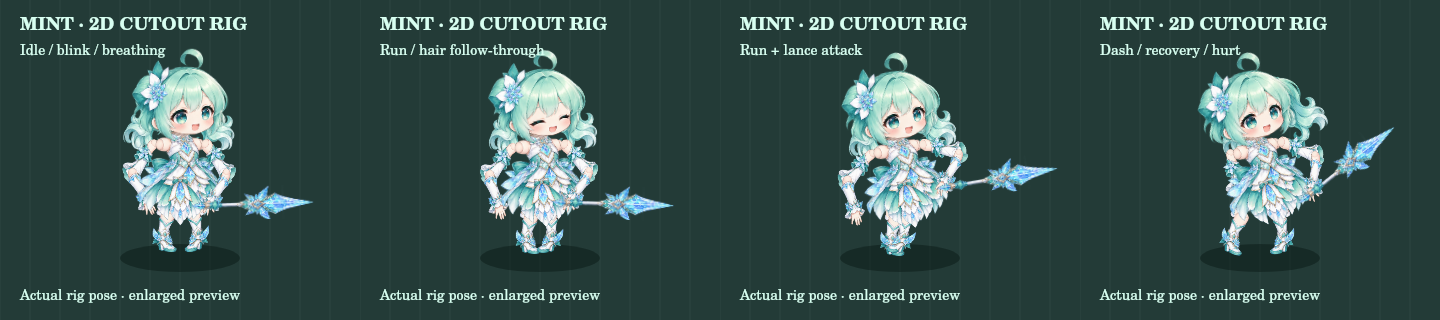
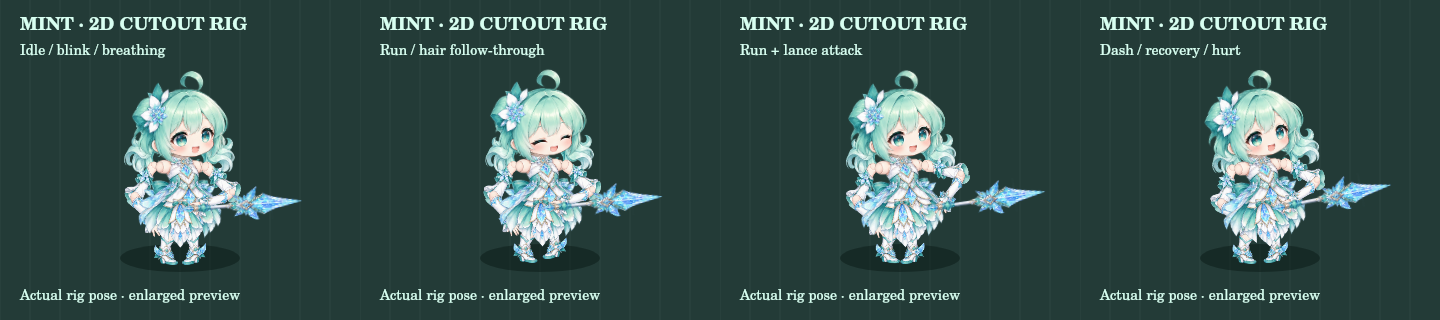
fix: plant Mint rig feet and keep lance attached during casts — v6.0.57

diff --git a/game.js b/game.js
@@ -50,7 +50,7 @@ function clampPlayerStats(p){ if(p._uqGlass){p.maxhp=Math.max(1,Math.round(p.max
 const TAU = Math.PI * 2;   // global — Game scene (บอส/VFX) อ้างถึง TAU ด้วย เดิมประกาศเฉพาะใน Boot.create → "TAU is not defined"
 
 /* ---- เวอร์ชัน + บันทึกUpdates (build-www ดึงไปทำ version.json ให้หน้า download) ---- */
-const GAME_VERSION = '6.0.56';
+const GAME_VERSION = '6.0.57';
 // Miniboss rewards: choose damage at an HP cost, or recovery.
 const CROSSROADS=[
   {id:'blood',name:'Blood Pact',desc:'+25% damage for 90 seconds',detail:'Lose 30% of current HP',artKey:'prize_jackpot',color:0xff6f9d},
@@ -60,6 +60,7 @@ const CROSSROADS=[
 const HURT_IFRAME_MUL = 0.6;
 const RELEASES_URL = 'https://github.com/hardza1230/Survival-like-Mobile-Game/releases/download/latest/mochi-mayhem-debug.apk';
 const CHANGELOG = [
+  { v:'6.0.57', date:'2026-10-01', title:'Mint rig gait and grip correction', items:['Planted feet and two-bone knee solving prevent crossed legs','Shorter chibi stride and distance-based gait smooth walking','Lance remains attached to the hand through casts; relaxed arm pose'] },
   { v:'6.0.56', date:'2026-10-01', title:'Mint 2D cutout rig trial', items:['Painted head, twin tails, arms, legs and lance animate on a joint hierarchy','Walking continues during upper-body lance attacks; hair follows dash movement','Mint keeps its existing physics, skills and saves; original sprites remain as fallback'] },
   { v:'6.0.55', date:'2026-10-01', title:'Temple layout, character EXP and digging fixes', items:['Core gem markers and button labels align with their painted sockets','Sugar balance is capped at 9,999,999 across all save paths','Stage results animate permanent character EXP and move Sugar x2 below rewards','Digging cancels stale animation callbacks and preserves earned treasure when leaving'] },
   { v:'6.0.54', date:'2026-10-01', title:'Ancient Root Knight animation cleanup', items:['Clean transparent C2-5 miniboss atlas with sixteen isolated frames','Separate idle, walk, cleave, shield, charge and summon animation states','Defeat uses the collapsed frame and stale pose timers cannot resume pooled sprites'] },
@@ -4124,33 +4125,45 @@ const MINT_RIG_BONES = [
   ['hairL','head',-11,-14],['hairR','head',11,-14],
   ['armL','torso',-10,-5],['foreL','armL',-5,11],
   ['armR','torso',10,-5],['foreR','armR',5,11],['lance','foreR',-5,11],
-  ['thighL','hip',-5,9],['shinL','thighL',-1,9],
-  ['thighR','hip',5,9],['shinR','thighR',1,9],['skirt','torso',0,8]
+  ['thighL','hip',-5,9],['shinL','thighL',0,8],
+  ['thighR','hip',5,9],['shinR','thighR',0,8],['skirt','torso',0,8]
 ];
 // bone, atlas part, painted width/height, joint origin, draw order
 const MINT_RIG_SKINS = [
  ['hairL',0,16,29,.55,.12,0],['hairR',1,16,29,.45,.12,1],
- ['thighL',9,8,12,.45,.08,2],['shinL',10,9,16,.45,.06,3],
- ['thighR',11,8,12,.5,.08,4],['shinR',12,9,16,.5,.06,5],
+ ['thighL',9,7,9,.45,.08,2],['shinL',10,9,13,.45,.06,3],
+ ['thighR',11,7,9,.5,.08,4],['shinR',12,9,13,.5,.06,5],
  ['armL',5,12,17,.80,.10,6],['foreL',6,11,17,.23,.1,7],
  ['torso',4,30,32,.5,.30,8],['skirt',14,17,18,.5,.08,9],
  ['armR',7,12,17,.22,.10,10],['foreR',8,11,17,.79,.10,11],
  ['lance',13,44,12,.17,.5,12],['head',2,35,33,.5,.76,13]
 ];
+// Downward-axis two-bone IK. Each foot stays in its own screen-space lane.
+function mintRigLeg(phase,move,side){
+ const lift=Math.max(0,Math.sin(phase))*2.3*move,
+   dx=Math.cos(phase)*.65*move,dy=19.6-lift+Math.sin(phase)*.35*move,
+   upper=8,lower=12,d=Math.min(upper+lower-.01,Math.hypot(dx,dy)),
+   clamp=v=>Math.max(-1,Math.min(1,v)),aim=Math.atan2(-dx,dy),
+   knee=Math.acos(clamp((d*d-upper*upper-lower*lower)/(2*upper*lower))),
+   thigh=aim+side*Math.acos(clamp((upper*upper+d*d-lower*lower)/(2*upper*d)));
+ return {thigh,knee:-side*knee};
+}
 function mintRigPose(time,phase,move,cast,dash,hurt){
- const step=Math.sin(phase),opposite=Math.sin(phase+Math.PI),breath=Math.sin(time*3),
-   thrust=Math.sin(Math.PI*Math.max(0,Math.min(1,cast))),swing=.36*move;
- return {hip:{y:Math.abs(step)*1.6*move+breath*.35},
-  torso:{rotation:-.06*move-.19*thrust-.20*dash+.14*hurt},
-  head:{rotation:.025*breath+.035*step*move+.10*thrust-.1*hurt},
-  hairL:{rotation:.13*Math.sin(phase-.75)*move+.045*Math.sin(time*2.3)-.42*dash},
-  hairR:{rotation:.12*Math.sin(phase-.95)*move+.04*Math.sin(time*2.3+.6)-.38*dash},
-  armL:{rotation:.12+opposite*swing-.35*dash+.16*hurt},foreL:{rotation:-.08+.12*move},
-  armR:{rotation:-.08+step*swing*.45-.58*thrust-.42*dash},
-  foreR:{rotation:.05+.18*move+.75*thrust},lance:{x:thrust*6,rotation:-.15*thrust-.24*dash},
-  thighL:{rotation:step*swing},shinL:{rotation:Math.max(0,-step)*.35*move},
-  thighR:{rotation:opposite*swing},shinR:{rotation:Math.max(0,-opposite)*.35*move},
-  skirt:{rotation:.06*Math.sin(phase-.6)*move-.12*dash}};
+ const step=Math.sin(phase),breath=Math.sin(time*3),
+   thrust=Math.sin(Math.PI*Math.max(0,Math.min(1,cast))),
+   left=mintRigLeg(phase,move,1),right=mintRigLeg(phase+Math.PI,move,-1),
+   arm=-.28-.65*thrust-.18*dash,fore=.95-.15*thrust;
+ return {hip:{y:-Math.abs(step)*.55*move+breath*.18},
+  torso:{rotation:-.025*move-.065*thrust-.10*dash+.08*hurt},
+  head:{rotation:.015*breath+.015*step*move+.025*thrust-.05*hurt},
+  hairL:{rotation:.06*Math.sin(phase-.75)*move+.025*Math.sin(time*2.3)-.2*dash},
+  hairR:{rotation:.055*Math.sin(phase-.95)*move+.025*Math.sin(time*2.3+.6)-.18*dash},
+  armL:{rotation:.04-.065*step*move-.14*dash+.08*hurt},foreL:{rotation:-.12},
+  armR:{rotation:arm},foreR:{rotation:fore},
+  lance:{rotation:-arm-fore-.07},
+  thighL:{rotation:left.thigh},shinL:{rotation:left.knee},
+  thighR:{rotation:right.thigh},shinR:{rotation:right.knee},
+  skirt:{rotation:.025*Math.sin(phase-.6)*move-.04*dash}};
 }
 class MintCutoutRig {
  constructor(scene){
@@ -4171,12 +4184,18 @@ class MintCutoutRig {
    const p=parent&&this.bones[parent],r=p?p.worldRotation:0,c=Math.cos(r),s=Math.sin(r);
    b.worldX=(p?p.worldX:0)+b.x*c-b.y*s;b.worldY=(p?p.worldY:0)+b.x*s+b.y*c;b.worldRotation=r+b.rotation;
   }
-  for(const {name,skin} of this.skins){const b=this.bones[name];skin.setPosition(b.worldX,b.worldY).setRotation(b.worldRotation);}
+  for(const {name,skin} of this.skins){const b=this.bones[name];
+   if(name==='shinL'||name==='shinR'){
+    // Keep the ankle planted while the knee flexes. Boot skin pivots around its sole.
+    const angle=b.worldRotation,footX=b.worldX-Math.sin(angle)*12,footY=b.worldY+Math.cos(angle)*12;
+    skin.setOrigin(.5,.93).setPosition(footX,footY+.1).setRotation(0);
+   }else skin.setPosition(b.worldX,b.worldY).setRotation(b.worldRotation);
+  }
  }
  animate(dt,p,scene){
-  dt=Math.max(0,Math.min(.05,dt));this.clock+=dt;
+  dt=Math.max(0,Math.min(.15,dt));this.clock+=dt;
   const speed=p.body?p.body.velocity.length():0,target=speed>24?Math.min(1,speed/120):0;
-  this.move+=(target-this.move)*(1-Math.exp(-dt*12));this.phase+=dt*(8+Math.min(speed,300)*.035)*this.move;
+  this.move+=(target-this.move)*(1-Math.exp(-dt*12));this.phase+=dt*Math.min(speed,300)*.075;
   this.castLeft=Math.max(0,this.castLeft-dt);this.hurtLeft=Math.max(0,this.hurtLeft-dt);
   const cast=this.castLeft>0?1-this.castLeft/this.castDuration:0,dash=scene.dashTime>0?1:0;
   this.apply(mintRigPose(this.clock,this.phase,this.move,cast,dash,this.hurtLeft>0?1:0),dt);
@@ -4187,7 +4206,7 @@ class MintCutoutRig {
  sync(p,scene){
   if(!this.root.scene)return;
   const dead=scene.state==='dead',visible=scene.state!=='menu'&&p.active!==false;
-  this.root.setVisible(visible).setPosition(p.x,p.y+(dead?12:0)).setDepth(scene.iso?p.y:p.depth);
+  this.root.setVisible(visible).setPosition(p.x,p.y+8+(dead?12:0)).setDepth(scene.iso?p.y:p.depth);
   const scale=.82;this.root.setScale((p.flipX?-1:1)*scale,scale).setRotation(dead?.82:0).setAlpha(p.alpha);
   for(const {skin} of this.skins){if(p.isTinted){if(p.tintFill)skin.setTintFill(p.tintTopLeft);else skin.setTint(p.tintTopLeft);}else skin.clearTint();}
  }

diff --git a/docs/MINT_RIG_TRIAL.md b/docs/MINT_RIG_TRIAL.md
@@ -30,3 +30,7 @@ Built-in imagegen; transparent background; reference `assets/char_mint_frostleaf
 ## Verification
 
 Automated tests exercise production forward kinematics, moving casts, constant scale, dash/hurt/blink, mirror/tint/depth/visibility, texture fallback, character switching and cleanup. The preview renders production poses, rather than the game scene. Full in-game mobile review is still required: Mint at normal size, high attack speed, moving cast, repeated dash, left/right turns, hit flash, pause/level-up, death/revive, stage transition and returning to menu. Measure device frame time before migrating other heroes. No device performance claim is made by the fixture tests.
+
+## v6.0.57 gait and grip correction
+
+User device review found the first gait unnatural. Opposed thigh swings could cross the feet in frontal projection. The cast also translated the lance away from its hand joint. Replaced the gait with two-bone IK (8/12px links), separate left/right foot lanes, 2.3px swing lift, 0.65px depth stride and fixed upright boots. Chibi legs are shorter; presentation root is shifted 8px to meet the existing ground shadow. Walk phase follows distance, and stop does not drift the gait clock. Reduced torso and hair movement. The weapon joint is fixed to the hand; arm extension performs the attack. Updated production-pose previews and regression tests. Mobile review remains required; the attachment is a still image and cannot establish the exact timing of the reported animation.

diff --git a/CLAUDE.md b/CLAUDE.md
@@ -1,3 +1,7 @@
+## Mint gait / grip correction — v6.0.57
+
+Replaced opposed frontal leg swinging with two-bone IK foot targets in separate lanes. Smaller stride and lift, upright boots, shorter chibi legs, root aligned to existing ground shadow. Distance-based phase independent of frame rate, smoother torso/hair motion. Relaxed right elbow and attached lance: no local hand-to-weapon translation during casts. Regression checks cover 360 moving/casting samples without crossed feet, planted boot angles and equal phase at 30/60 FPS. Preview updated; real-device motion review still pending.
+
 ## Mint 2D cutout rig trial — v6.0.56
 
 Mint gameplay now uses a painted 16-part atlas with 15 hierarchical bones and 14 rigid skins. Forward kinematics, blended joint transitions, continuous gait, upper-body lance attacks, blink, hair sway, dash/hurt and bounded rig ghost snapshots. Original physics sprite remains invisible and handles combat/collision; old sprite art is fallback when rig texture is unavailable. Other heroes and menu portraits unchanged. Production-pose preview: docs/previews/mint_rig_motion.gif; specification and reproduction: docs/MINT_RIG_TRIAL.md. Automated rig integration checks, full checks and build; real-device visual/performance review pending before migrating other heroes.
